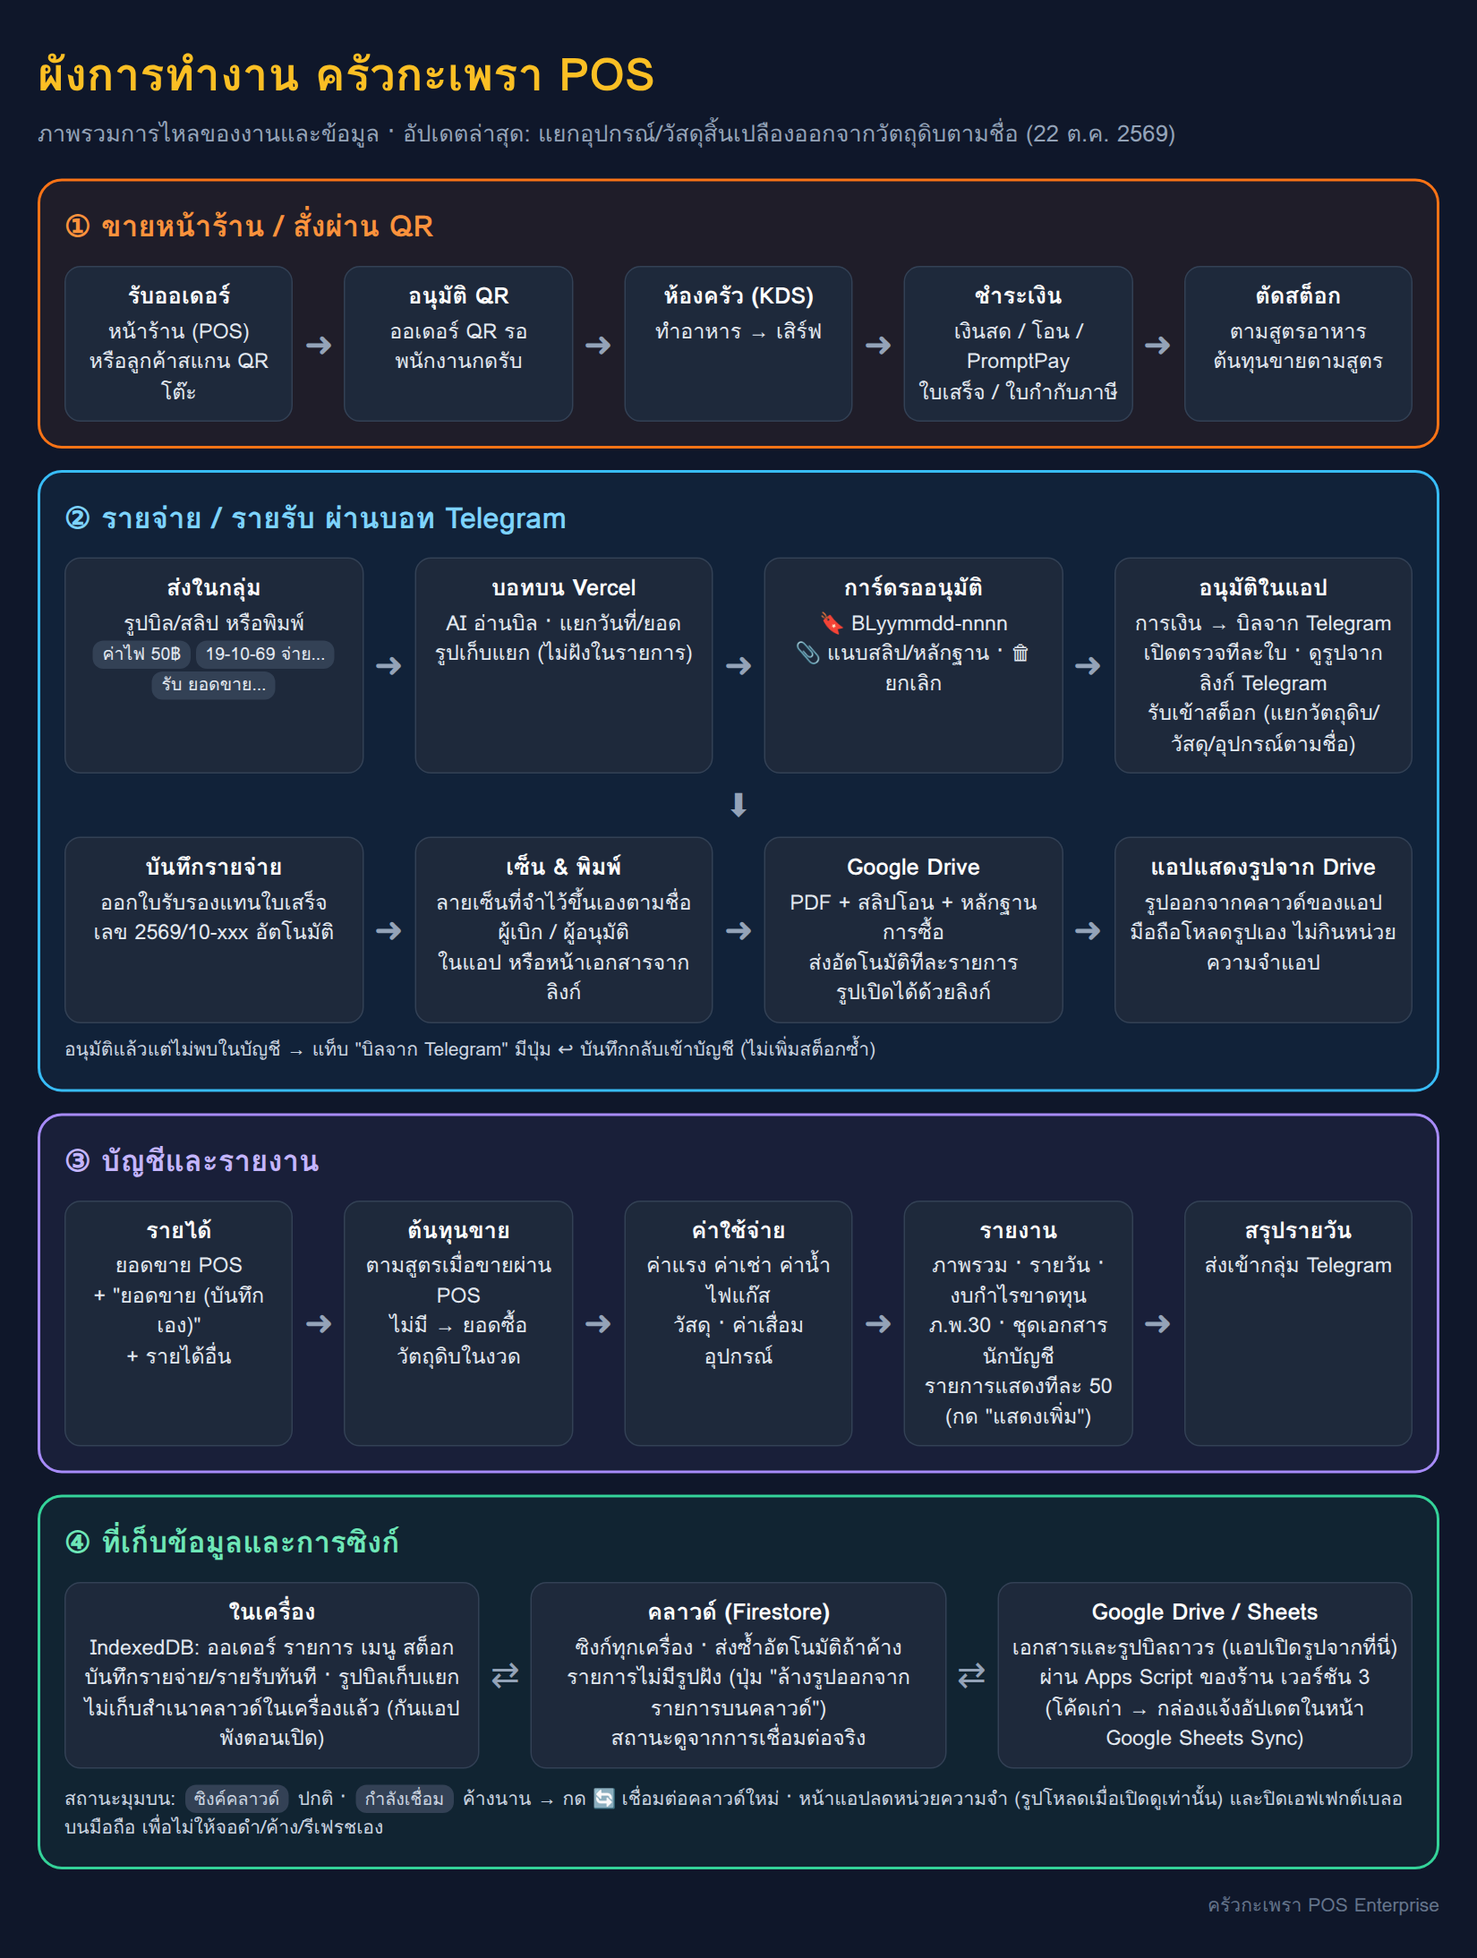
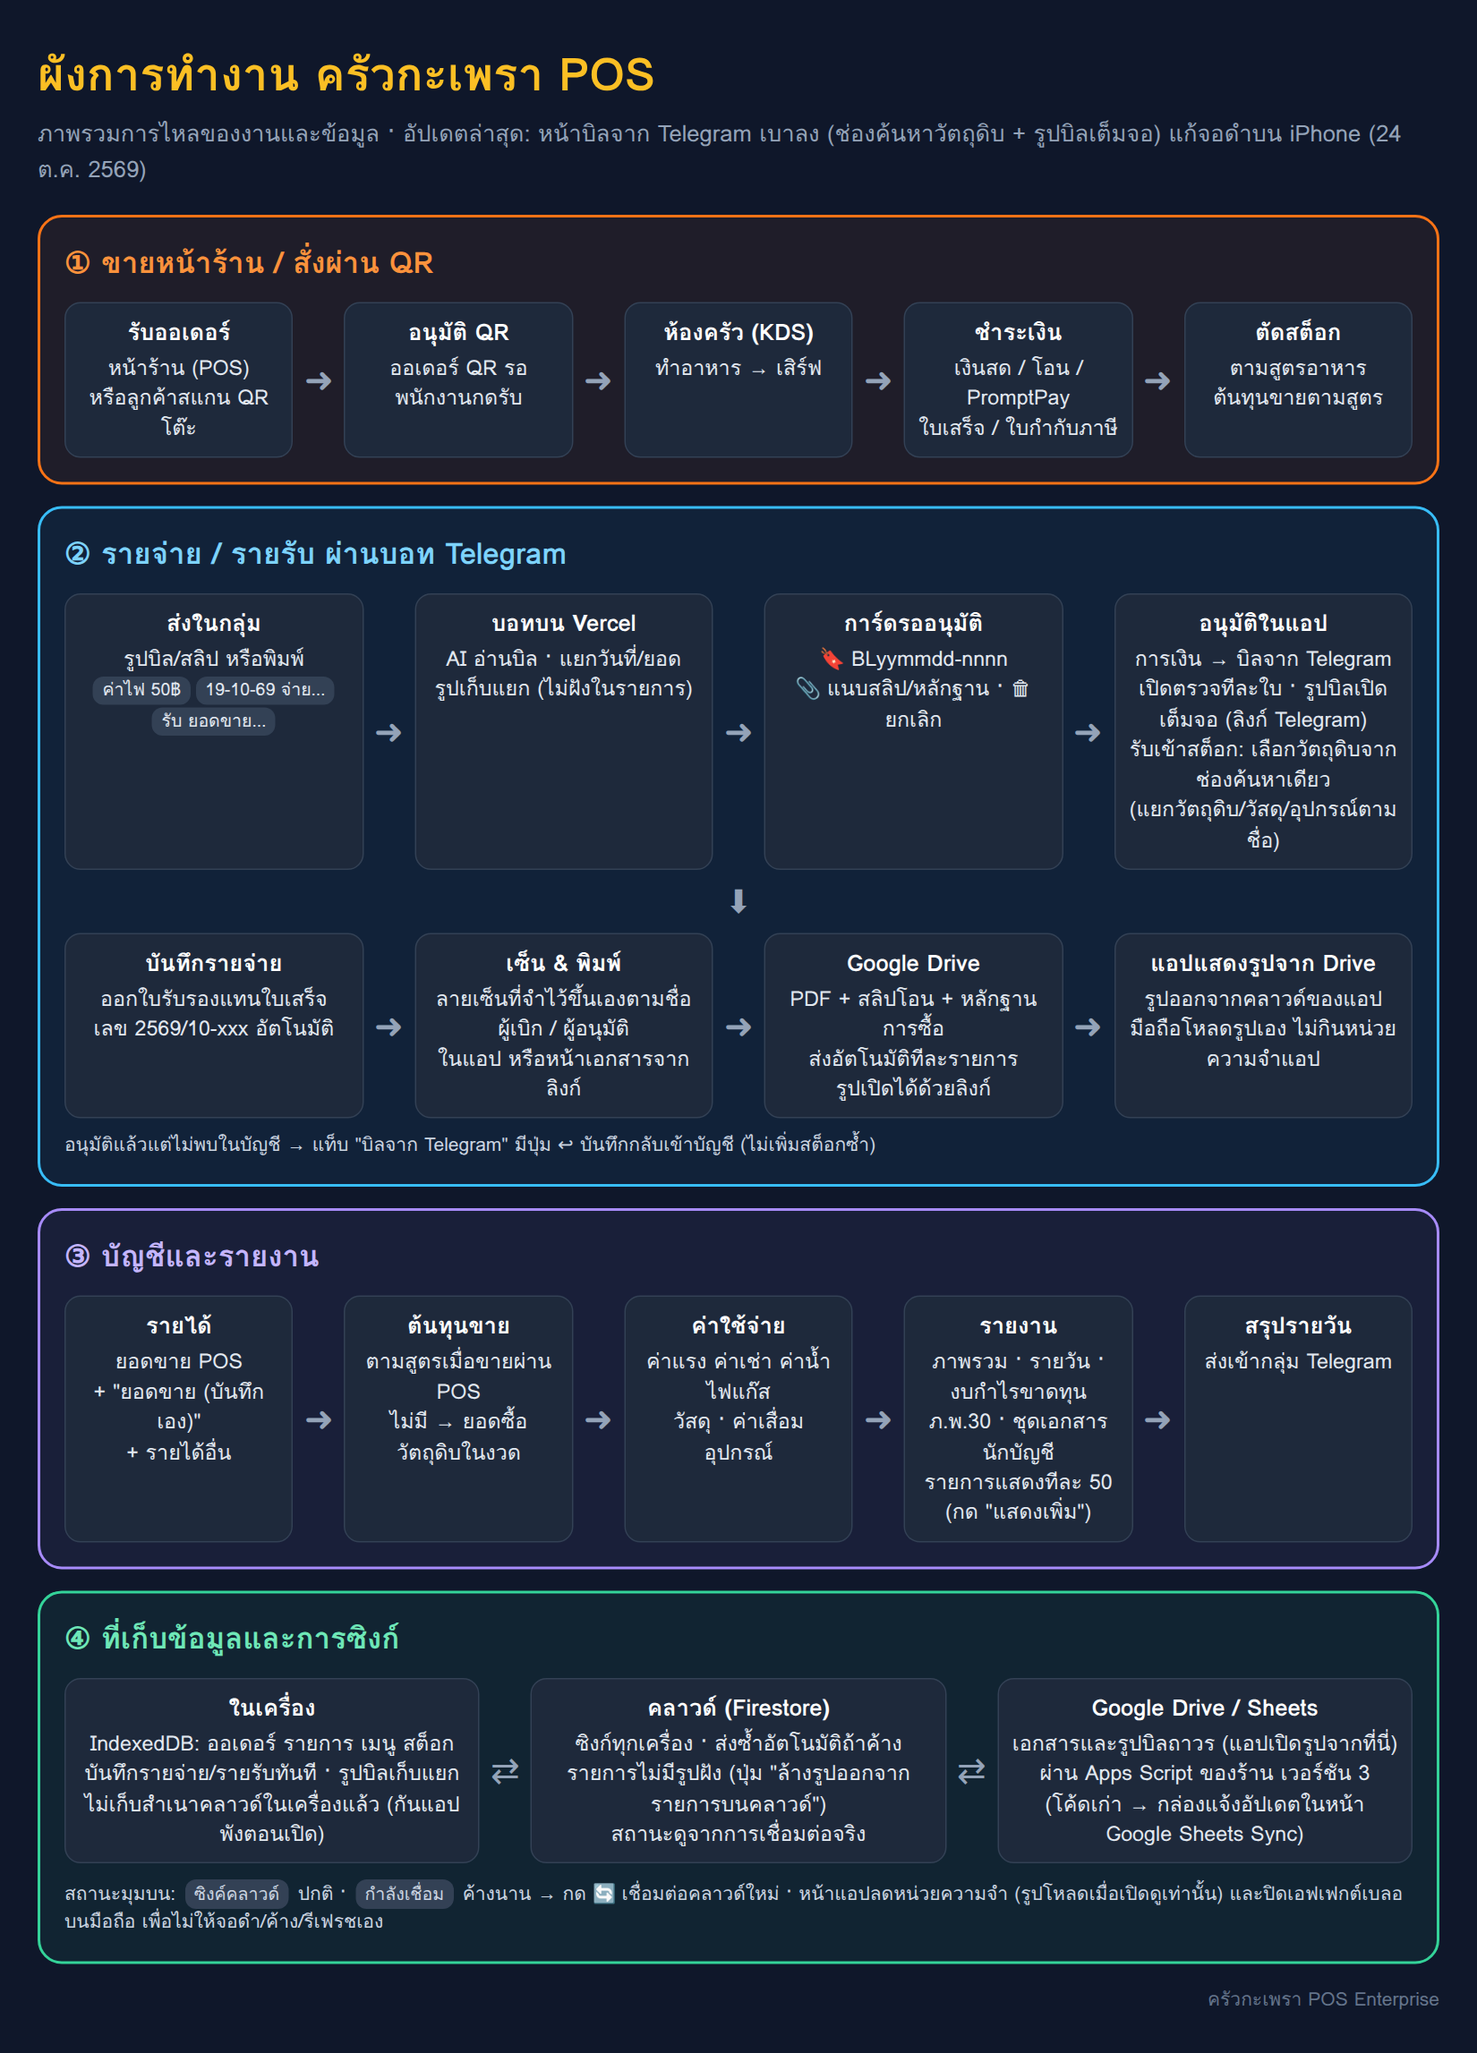
Telegram bills: one searchable ingredient picker and a full-screen bill viewer
Each line of an open bill carried a dropdown of every ingredient (about
1,600 extra elements for 8 lines and 200 ingredients) and the bill photo
was drawn inside the scrolling page, which left iPhones with black,
unpainted areas. Lines now open one shared search list, and the photo
opens over the page. Page elements 2,142 -> 526, opens in 0.7 s instead
of 1.9 s (4x CPU throttle).

Claude-Session: https://claude.ai/code/session_01Gq3UvYW4wv3hsVCXoh5wxy

diff --git a/src/components/telegram/TelegramInboxPanel.tsx b/src/components/telegram/TelegramInboxPanel.tsx
@@ -38,6 +38,64 @@ const billItems = (p: PendingReceipt): BillItem[] => {
 
 const APPROVER_ROLES = ['admin', 'manager'];
 
+/** Most matches listed at once in the ingredient picker (the shop can have hundreds) */
+const PICKER_LIMIT = 60;
+
+/**
+ * One list of the shop's ingredients for the line being matched. Each line of the bill used to
+ * carry its own dropdown of every ingredient (thousands of entries on the page), which left
+ * iPhones with black, unpainted areas and froze the page.
+ */
+const IngredientPicker: React.FC<{
+  ingredients: Ingredient[];
+  label: string;
+  onPick: (value: string) => void;
+  onClose: () => void;
+}> = ({ ingredients, label, onPick, onClose }) => {
+  const [q, setQ] = useState('');
+  const matches = useMemo(() => {
+    const words = q.trim().toLowerCase().split(/\s+/).filter(Boolean);
+    const typed = q.trim().toLowerCase();
+    const list = words.length
+      ? ingredients
+          .filter(i => words.every(w => i.name.toLowerCase().includes(w)))
+          // Names that start with what was typed come first
+          .sort((a, b) => Number(!a.name.toLowerCase().startsWith(typed)) - Number(!b.name.toLowerCase().startsWith(typed)))
+      : ingredients;
+    const near = !words.length && label ? matchIngredient(label, ingredients) : undefined;
+    return near ? [near, ...list.filter(i => i.id !== near.id)] : list;
+  }, [q, ingredients, label]);
+  return (
+    <div className="fixed inset-0 z-[90] bg-slate-950 flex flex-col text-xs" role="dialog" aria-label="เลือกวัตถุดิบ">
+      <div className="p-3 border-b border-slate-800 flex items-center gap-2">
+        <input
+          autoFocus
+          value={q}
+          onChange={e => setQ(e.target.value)}
+          placeholder="ค้นหาวัตถุดิบ..."
+          className="flex-1 bg-slate-900 border border-slate-700 rounded-lg px-3 py-2.5 text-sm text-slate-100 focus:outline-none focus:border-sky-500"
+        />
+        <button type="button" onClick={onClose} className="h-10 px-3 rounded-lg border border-slate-700 text-slate-300">
+          ปิด
+        </button>
+      </div>
+      {label && <div className="px-3 pt-2 text-slate-400">ในบิล: {label}</div>}
+      <div className="flex-1 overflow-y-auto overscroll-contain p-3 space-y-1.5">
+        <button type="button" onClick={() => onPick('__new__')} className="w-full text-left px-3 py-2.5 rounded-lg border border-sky-700/60 bg-sky-950/40 text-sky-200 font-bold">
+          ＋ สร้างวัตถุดิบใหม่{label ? ` “${label}”` : ''}
+        </button>
+        {matches.slice(0, PICKER_LIMIT).map(i => (
+          <button key={i.id} type="button" onClick={() => onPick(i.id)} className="w-full text-left px-3 py-2.5 rounded-lg bg-slate-900 border border-slate-800 text-slate-100">
+            {i.name} <span className="text-slate-500">({i.unit})</span>
+          </button>
+        ))}
+        {matches.length > PICKER_LIMIT && <p className="text-center text-slate-500 py-2">อีก {matches.length - PICKER_LIMIT} รายการ พิมพ์ค้นหาเพื่อหาให้เจอ</p>}
+        {!matches.length && <p className="text-center text-slate-500 py-4">ไม่พบ “{q}” กด “＋ สร้างวัตถุดิบใหม่” ได้</p>}
+      </div>
+    </div>
+  );
+};
+
 /** Recorded by the bot already (บันทึกทันที): only the goods still have to go into stock */
 const stockOnly = (p: PendingReceipt) => p.status === 'approved' && !!p.stockPending && !p.stockAdded?.length;
 const NEW_INGREDIENT_UNITS = ['kg', 'g', 'l', 'ml', 'ชิ้น', 'ฟอง', 'ขวด', 'ถุง', 'แพ็ค', 'กล่อง'];
@@ -89,10 +147,15 @@ export const TelegramInboxPanel: React.FC<{ incomeLabels: Record<IncomeCategory,
   const [images, setImages] = useState<Record<string, string>>({});
   // Bills shown on screen: a Telegram link the phone loads itself (no copy in the app's memory)
   const [shown, setShown] = useState<Record<string, string>>({});
+  // The bill picture opens over the page (drawn inside the scrolling page it left iPhones with black areas)
+  const [viewing, setViewing] = useState<string | null>(null);
   const showBill = async (p: PendingReceipt) => {
-    const url = await telegramFileUrl(token, p.storeFileId || p.fileId);
+    const url = shown[p.id] || (await telegramFileUrl(token, p.storeFileId || p.fileId));
     setShown(prev => Object.fromEntries([...Object.entries(prev).filter(([k]) => k !== p.id).slice(-4), [p.id, url]]));
+    setViewing(p.id);
   };
+  /** The bill line whose ingredient is being chosen */
+  const [picking, setPicking] = useState<{ id: string; key: string } | null>(null);
   const [busy, setBusy] = useState<string | null>(null);
   const [error, setError] = useState<string | null>(null);
   const [showHistory, setShowHistory] = useState(false);
@@ -208,6 +271,20 @@ export const TelegramInboxPanel: React.FC<{ incomeLabels: Record<IncomeCategory,
   const editRow = (p: PendingReceipt, key: string, change: Partial<IntakeRow>) => {
     const f = form(p);
     edit(p, { stock: stockRows(p, f).map(r => (r.key === key ? { ...r, ...change } : r)) });
+  };
+  const pickIngredient = (p: PendingReceipt, row: IntakeRow, value: string) => {
+    const f = form(p);
+    if (value !== '__new__') return editRow(p, row.key, { ingredientId: value, selected: !!value, unitMismatch: false, newIngredient: undefined });
+    editRow(p, row.key, {
+      ingredientId: '',
+      selected: true,
+      unitMismatch: false,
+      newIngredient: {
+        name: row.label,
+        unit: row.billUnit || (f.category === 'raw_material' ? 'kg' : 'ชิ้น'),
+        category: f.category === 'supplies' ? 'supplies' : f.category === 'equipment' ? 'equipment' : ingredientCategories[0]?.id || 'dry_good'
+      }
+    });
   };
   const addRow = (p: PendingReceipt) => {
     const f = form(p);
@@ -474,22 +551,11 @@ export const TelegramInboxPanel: React.FC<{ incomeLabels: Record<IncomeCategory,
             <div className="space-y-2">
               {!p.fileId ? (
                 <div className="w-full h-20 rounded-xl border border-dashed border-slate-700 text-slate-500 flex items-center justify-center">พิมพ์จดในแชท (ไม่มีรูป)</div>
-              ) : shown[p.id] ? (
-                <a href={shown[p.id]} target="_blank" rel="noopener noreferrer">
-                  <img
-                    src={shown[p.id]}
-                    alt="รูปบิลจาก Telegram"
-                    decoding="async"
-                    className="w-full max-h-[70vh] object-contain rounded-xl border border-slate-700 bg-white"
-                    // The link expired (about an hour): ask Telegram for a new one
-                    onError={() => setShown(prev => Object.fromEntries(Object.entries(prev).filter(([k]) => k !== p.id)))}
-                  />
-                </a>
               ) : (
                 <button
                   type="button"
                   onClick={() => showBill(p).catch(e => setError(e.message))}
-                  className="w-full h-32 rounded-xl border border-dashed border-slate-700 text-slate-400 flex flex-col items-center justify-center gap-1"
+                  className="w-full h-16 md:h-32 rounded-xl border border-dashed border-slate-700 text-slate-400 flex flex-col items-center justify-center gap-1"
                 >
                   <ImageIcon className="w-5 h-5" /> ดูรูปบิล
                 </button>
@@ -646,34 +712,14 @@ export const TelegramInboxPanel: React.FC<{ incomeLabels: Record<IncomeCategory,
                               <div className="text-amber-300 font-bold">ไม่พบในคลัง: เลือกวัตถุดิบ หรือเลือก “＋ สร้างวัตถุดิบใหม่”</div>
                             )}
                             <div className="grid grid-cols-[1fr_90px] gap-2">
-                              <select
-                                value={row.newIngredient ? '__new__' : row.ingredientId}
-                                onChange={e =>
-                                  e.target.value === '__new__'
-                                    ? editRow(p, row.key, {
-                                        ingredientId: '',
-                                        selected: true,
-                                        unitMismatch: false,
-                                        newIngredient: {
-                                          name: row.label,
-                                          unit: row.billUnit || (f.category === 'raw_material' ? 'kg' : 'ชิ้น'),
-                                          category:
-                                            f.category === 'supplies' ? 'supplies' : f.category === 'equipment' ? 'equipment' : ingredientCategories[0]?.id || 'dry_good'
-                                        }
-                                      })
-                                    : editRow(p, row.key, { ingredientId: e.target.value, selected: !!e.target.value, unitMismatch: false, newIngredient: undefined })
-                                }
-                                className={field}
+                              <button
+                                type="button"
+                                onClick={() => setPicking({ id: p.id, key: row.key })}
+                                className={`${field} text-left truncate ${ing || row.newIngredient ? '' : 'text-slate-400'}`}
                                 aria-label="วัตถุดิบ"
                               >
-                                <option value="">เลือกวัตถุดิบ...</option>
-                                <option value="__new__">＋ สร้างวัตถุดิบใหม่{row.label ? ` “${row.label}”` : ''}</option>
-                                {sortedIngredients.map(i => (
-                                  <option key={i.id} value={i.id}>
-                                    {i.name} ({i.unit})
-                                  </option>
-                                ))}
-                              </select>
+                                {ing ? `${ing.name} (${ing.unit})` : row.newIngredient ? `＋ ใหม่: ${row.newIngredient.name || row.label}` : 'เลือกวัตถุดิบ... ▾'}
+                              </button>
                               <label className="relative">
                                 <span className="sr-only">จำนวน</span>
                                 <input
@@ -844,6 +890,50 @@ export const TelegramInboxPanel: React.FC<{ incomeLabels: Record<IncomeCategory,
               ))}
             </ul>
           )}
+        </div>
+      )}
+
+      {picking &&
+        (() => {
+          const p = items.find(x => x.id === picking.id);
+          const row = p && stockRows(p, form(p)).find(r => r.key === picking.key);
+          if (!p || !row) return null;
+          return (
+            <IngredientPicker
+              ingredients={sortedIngredients}
+              label={row.label}
+              onClose={() => setPicking(null)}
+              onPick={value => {
+                pickIngredient(p, row, value);
+                setPicking(null);
+              }}
+            />
+          );
+        })()}
+
+      {viewing && shown[viewing] && (
+        <div className="fixed inset-0 z-[90] bg-black flex flex-col" role="dialog" aria-label="รูปบิล">
+          <div className="p-2 flex justify-between items-center gap-2 text-xs">
+            <a href={shown[viewing]} target="_blank" rel="noopener noreferrer" className="h-10 px-3 rounded-lg border border-slate-700 text-slate-300 flex items-center">
+              เปิดรูปเต็ม
+            </a>
+            <button type="button" onClick={() => setViewing(null)} className="h-10 px-4 rounded-lg bg-slate-800 text-slate-100 font-bold">
+              ปิด
+            </button>
+          </div>
+          <img
+            src={shown[viewing]}
+            alt="รูปบิลจาก Telegram"
+            decoding="async"
+            className="flex-1 min-h-0 w-full object-contain"
+            // The link expired (about an hour): ask Telegram for a new one next time
+            onError={() => {
+              const id = viewing;
+              setViewing(null);
+              setShown(prev => Object.fromEntries(Object.entries(prev).filter(([k]) => k !== id)));
+              setError('เปิดรูปบิลไม่ได้ ลองกด “ดูรูปบิล” อีกครั้ง');
+            }}
+          />
         </div>
       )}
     </div>

diff --git a/docs/workflow/flow.html b/docs/workflow/flow.html
@@ -17,7 +17,7 @@ h1{margin:0 0 4px;font-size:34px;color:#fbbf24}.sub{color:#94a3b8;font-size:17px
 .foot{color:#64748b;font-size:14px;margin-top:6px;text-align:right}
 </style></head><body>
 <h1>ผังการทำงาน ครัวกะเพรา POS</h1>
-<div class="sub">ภาพรวมการไหลของงานและข้อมูล · อัปเดตล่าสุด: แยกอุปกรณ์/วัสดุสิ้นเปลืองออกจากวัตถุดิบตามชื่อ (22 ต.ค. 2569)</div>
+<div class="sub">ภาพรวมการไหลของงานและข้อมูล · อัปเดตล่าสุด: หน้าบิลจาก Telegram เบาลง (ช่องค้นหาวัตถุดิบ + รูปบิลเต็มจอ) แก้จอดำบน iPhone (24 ต.ค. 2569)</div>
 
 <div class="lane pos"><h2>① ขายหน้าร้าน / สั่งผ่าน QR</h2>
 <div class="row">
@@ -33,7 +33,7 @@ h1{margin:0 0 4px;font-size:34px;color:#fbbf24}.sub{color:#94a3b8;font-size:17px
 <div class="box"><b>ส่งในกลุ่ม</b>รูปบิล/สลิป หรือพิมพ์<br><span class="tag">ค่าไฟ 50฿</span><span class="tag">19-10-69 จ่าย…</span><span class="tag">รับ ยอดขาย…</span></div><div class="ar">➜</div>
 <div class="box"><b>บอทบน Vercel</b>AI อ่านบิล · แยกวันที่/ยอด<br>รูปเก็บแยก (ไม่ฝังในรายการ)</div><div class="ar">➜</div>
 <div class="box"><b>การ์ดรออนุมัติ</b>🔖 BLyymmdd-nnnn<br>📎 แนบสลิป/หลักฐาน · 🗑 ยกเลิก</div><div class="ar">➜</div>
-<div class="box"><b>อนุมัติในแอป</b>การเงิน → บิลจาก Telegram<br>เปิดตรวจทีละใบ · ดูรูปจากลิงก์ Telegram<br>รับเข้าสต็อก (แยกวัตถุดิบ/วัสดุ/อุปกรณ์ตามชื่อ)</div>
+<div class="box"><b>อนุมัติในแอป</b>การเงิน → บิลจาก Telegram<br>เปิดตรวจทีละใบ · รูปบิลเปิดเต็มจอ (ลิงก์ Telegram)<br>รับเข้าสต็อก: เลือกวัตถุดิบจากช่องค้นหาเดียว<br>(แยกวัตถุดิบ/วัสดุ/อุปกรณ์ตามชื่อ)</div>
 </div>
 <div class="down">⬇</div>
 <div class="row">
